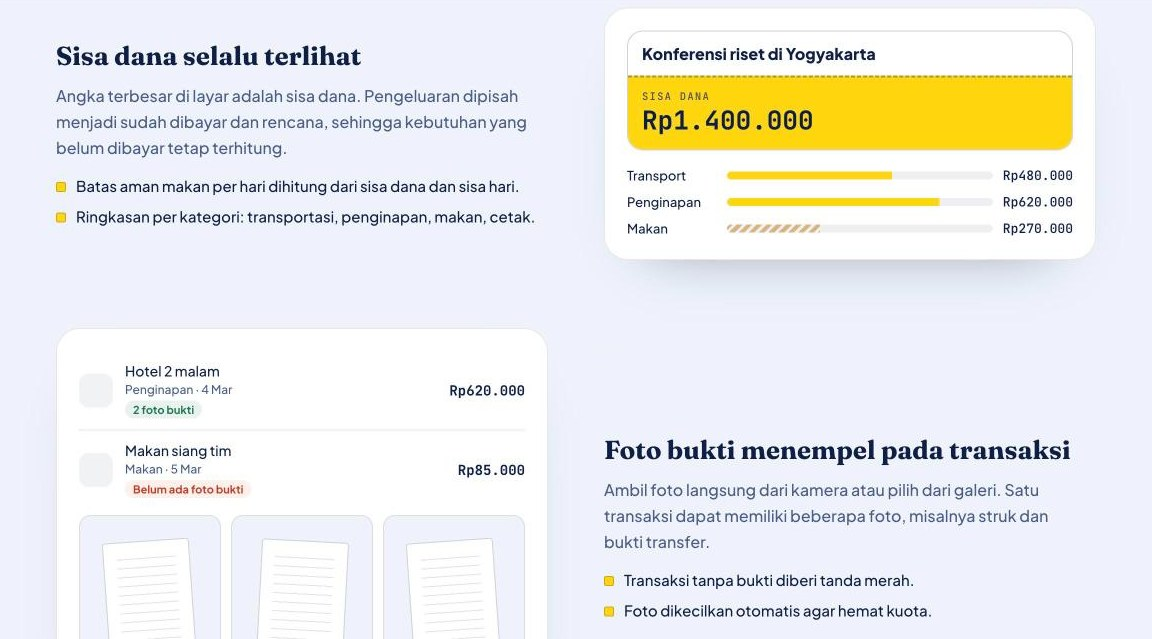
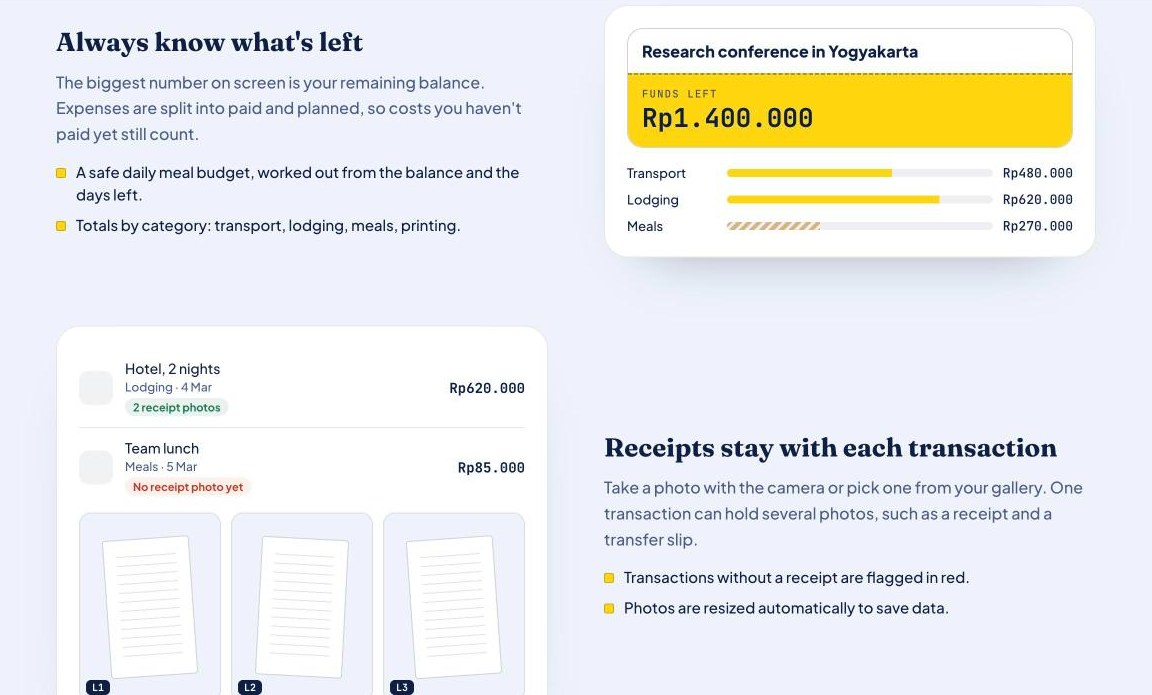
README: English app screenshots from the demo server and English landing images

diff --git a/README.md b/README.md
@@ -8,7 +8,7 @@ Jejak is a mobile-first web app for students and staff who travel on someone els
 
 ![Jejak landing page: a trip card with funds received, paid and planned expenses, and the remaining balance](docs/landing.jpg)
 
-*The interface is in Indonesian, because it was built for Indonesian campus and office travel reports.*
+*The interface comes in English and Indonesian. It follows the phone's language, and the ID · EN switch on the landing page, the login screen and the Account sheet changes it at any time.*
 
 ## Why
 
@@ -27,9 +27,21 @@ Every competition trip ends the same way. Receipts get crumpled in a bag, travel
 | **Report** | A printable accountability report: funds received, spent and remaining, a numbered expense table, and every receipt as a labelled attachment (L1, L2, ...). Saves as PDF through the browser's print dialog and exports to CSV for Excel. |
 | **Shared trips** | Invite teammates with a join code. Members see the same trip, each entry shows who recorded it, and only the owner can delete the trip. |
 
-![Remaining balance and per-category summary, and expenses with attached receipt photos](docs/sisa-dana.jpg)
+## Inside the app
 
-![Printable report with numbered expenses and receipt attachments](docs/laporan.jpg)
+![Funds tab with the remaining balance, meal budget and spending by category; paid expenses with receipt photos; the trip schedule with directions](docs/app-funds-schedule.jpg)
+
+*Funds: the remaining balance, a reminder for the one expense without a receipt, today's meal budget, spending by category, and paid expenses with their receipt photos. Schedule: the day's agenda with directions.*
+
+![Notes tab with a categorised Q&A, and the Report tab with totals, PDF and CSV export, and the list of expenses still missing a receipt](docs/app-notes-report.jpg)
+
+*Notes: a Q&A practice note with category filters and collapsible answers. Report: totals, PDF and CSV export, and the expenses that still need a receipt photo.*
+
+The screenshots come from a local demo server with a fictional trip (`node scripts/demo-server.js`), so no real account or data is involved.
+
+## On the landing page
+
+![Landing page section: always know what's left, and receipts stay with each transaction](docs/sisa-dana.jpg)
 
 ## How it works
 
@@ -95,7 +107,7 @@ node --env-file=.env.local scripts/test-sharing.js
 - **web/**: the app: `app.js`, `app.css`, `index.html`, the service worker and icons
 - **api/**: the serverless API listed above
 - **lib/**: database, auth and branding
-- **scripts/**: deploy helper, the sharing test, and one-off scripts to seed an account and fill trip notes
+- **scripts/**: deploy helper, the sharing test, the local demo server used for the screenshots, and one-off scripts to seed an account and fill trip notes
 - **docs/**: the images in this README
 
 ## Built with
